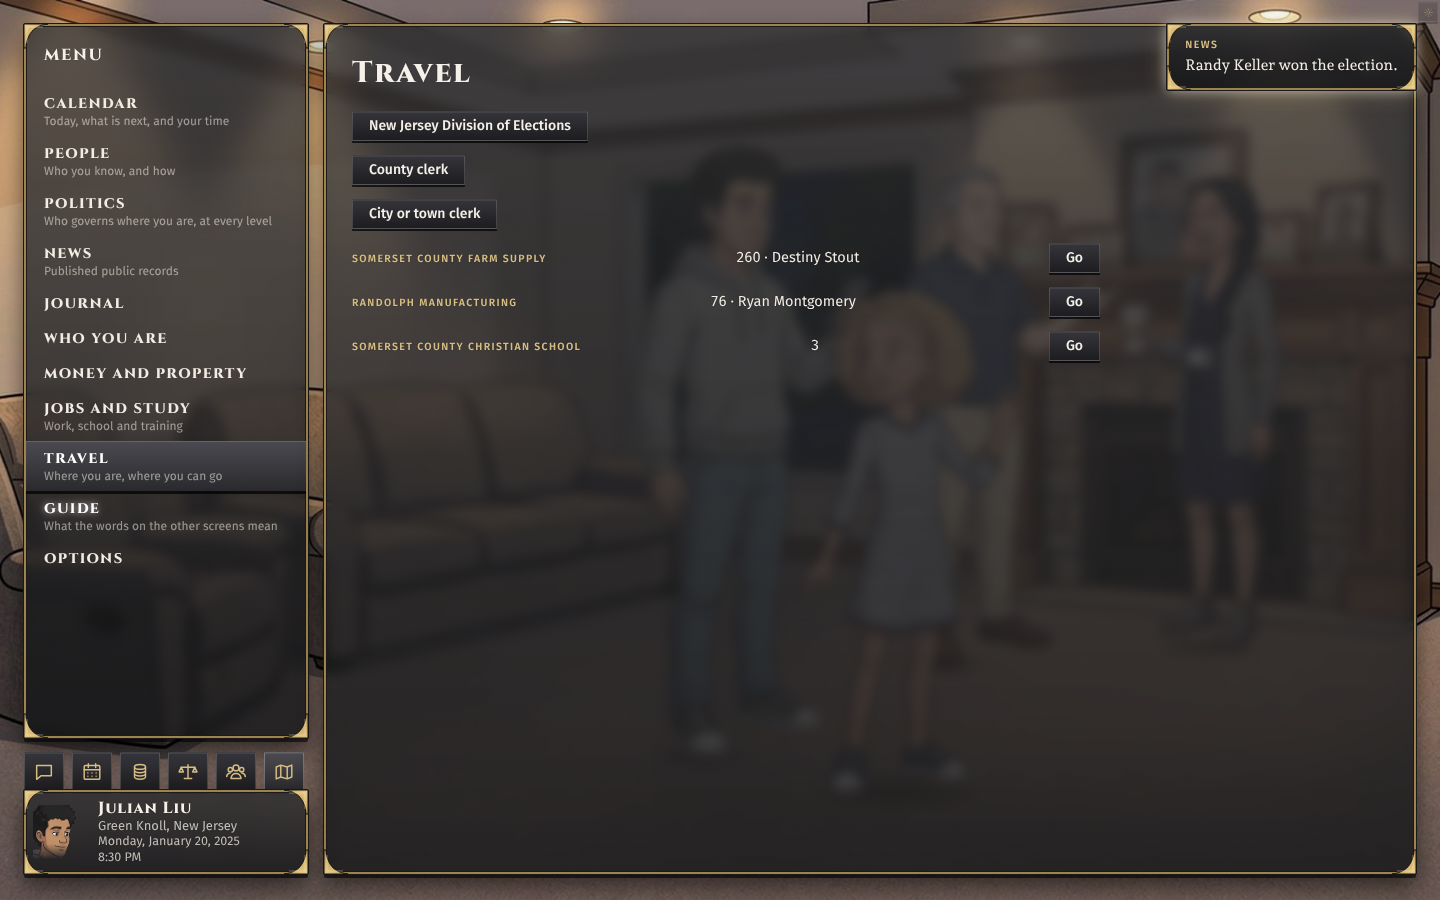
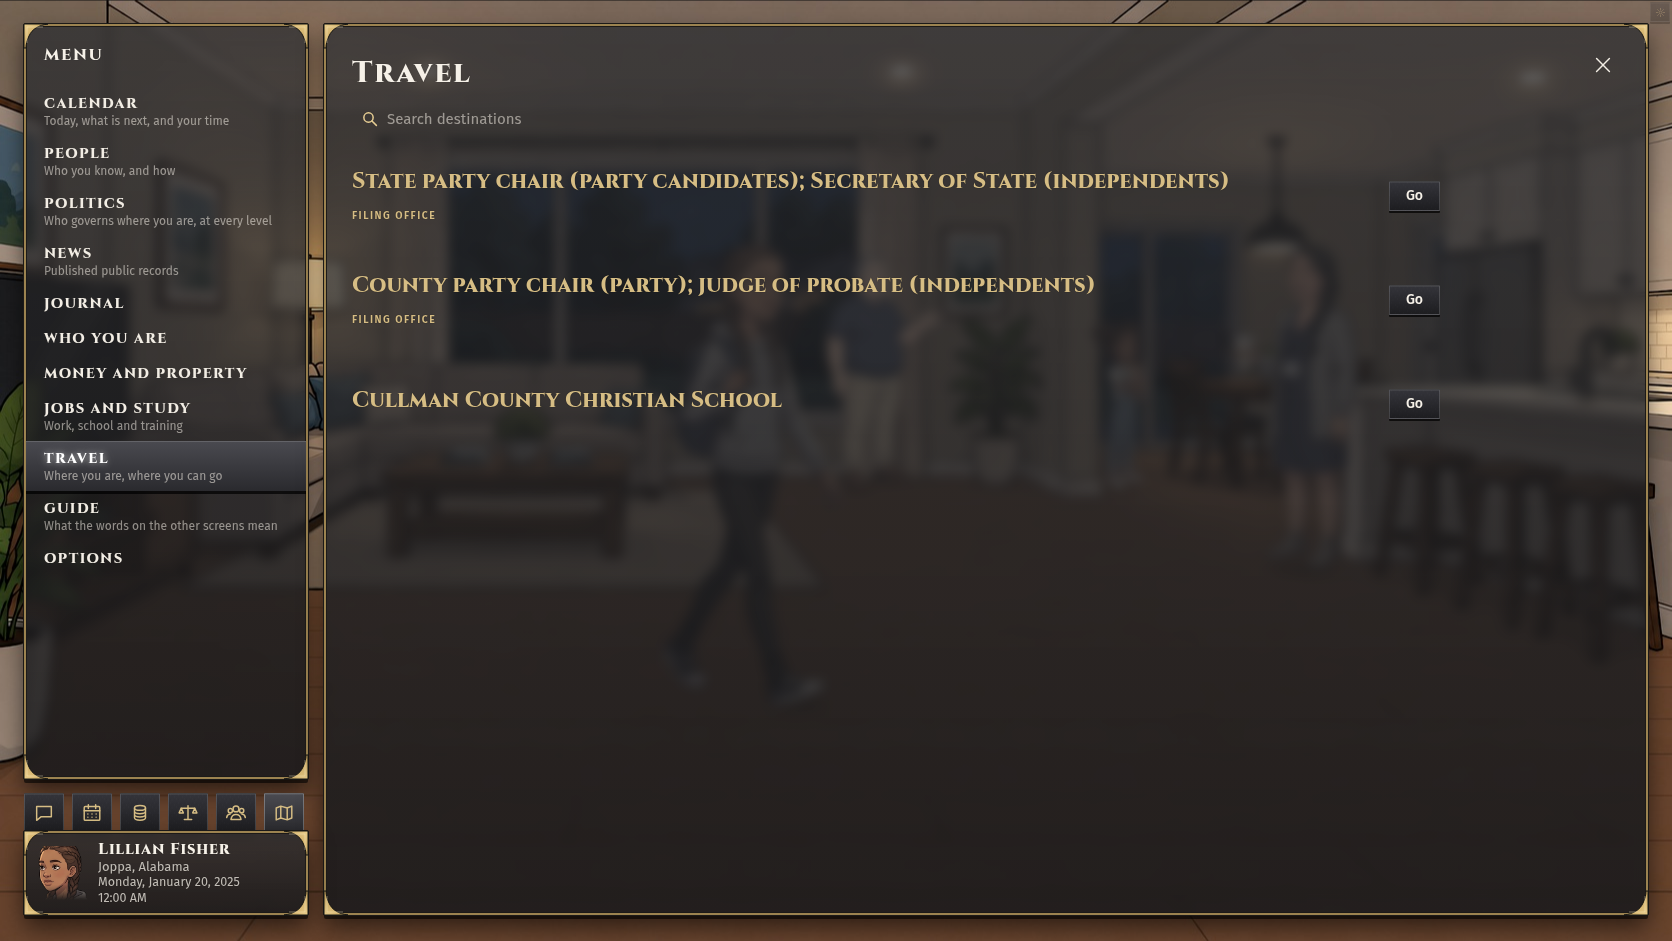
Finish Travel destinations search paging and filing counters

diff --git a/src/bench/play.css b/src/bench/play.css
@@ -1551,3 +1551,39 @@ body.dev .dev-ring {
   display: grid;
   gap: 6px;
 }
+
+#sheet-body:has(.travel-destinations) {
+  max-width: 1100px;
+}
+.travel-place {
+  display: flex;
+  align-items: center;
+  gap: 28px;
+  min-height: 84px;
+  margin: 20px 0;
+}
+.travel-info {
+  flex: 1;
+}
+.travel-info h3 {
+  font: 600 22px var(--name);
+  color: var(--gold);
+  margin: 0 0 8px;
+}
+.travel-info p {
+  font: 17px var(--speech);
+  margin: 0;
+}
+.travel-image {
+  width: 150px;
+  height: 90px;
+  object-fit: cover;
+}
+.travel-pager {
+  display: flex;
+  gap: 16px;
+  margin-top: 24px;
+}
+#game.sheet-open #news-surface {
+  visibility: hidden;
+}
